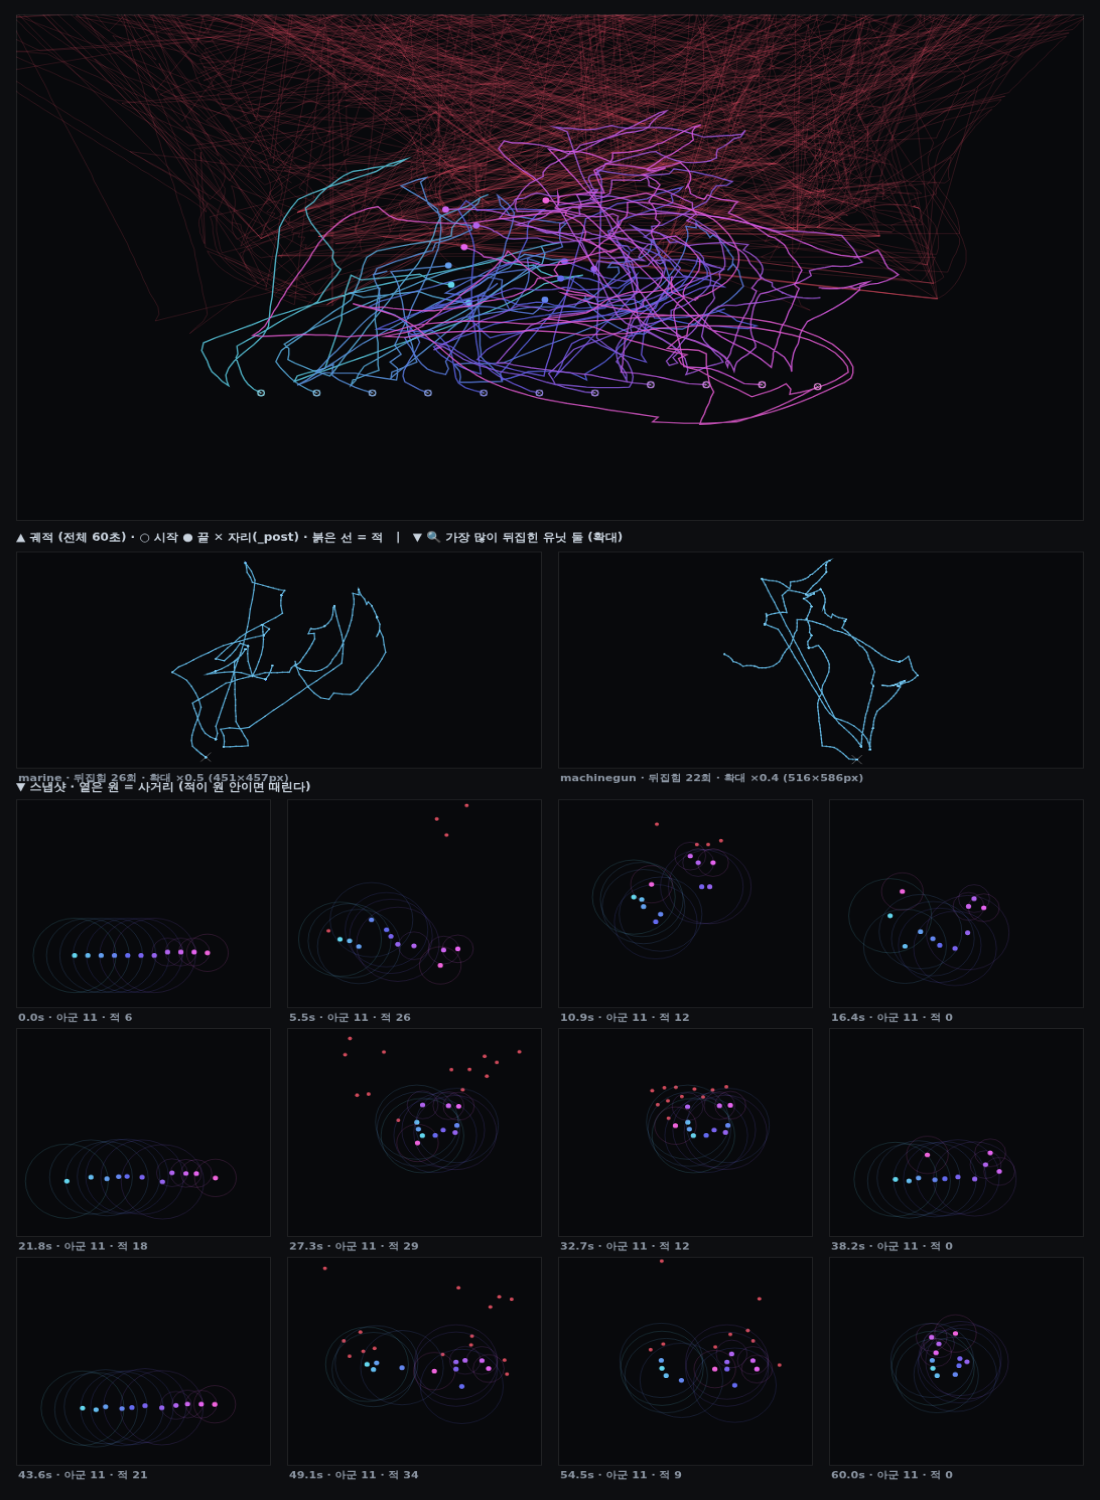
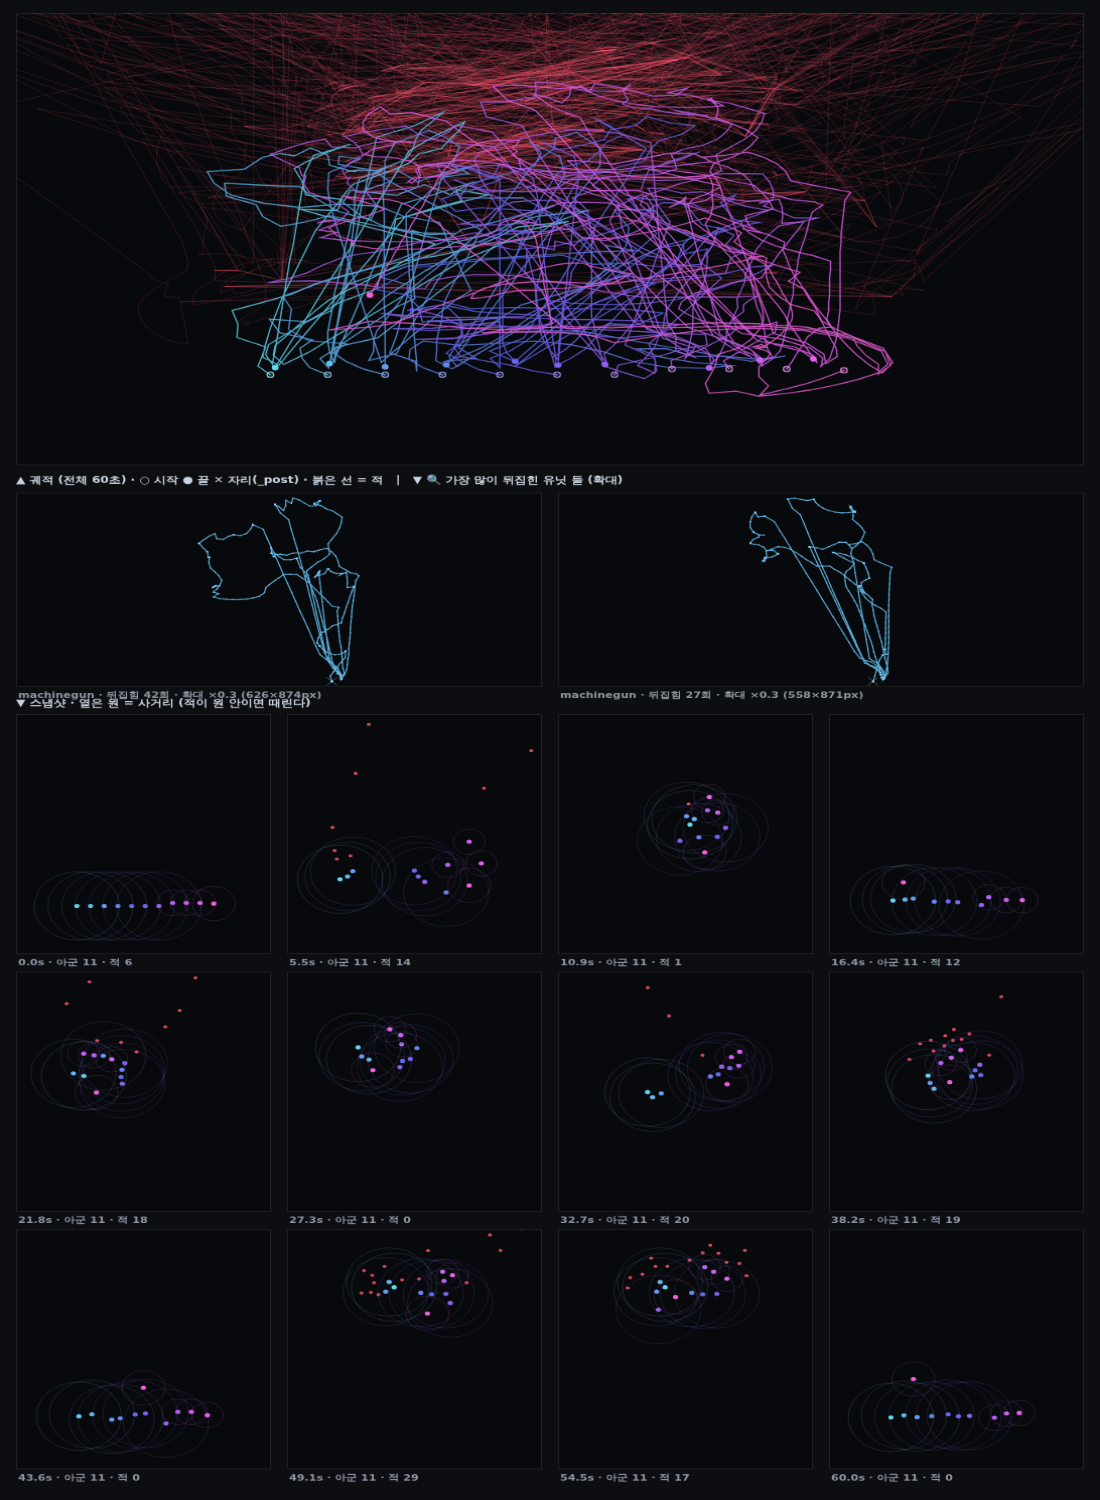
캠프: 던전 조작감을 기지와 맞춘다 — 이동 속도 · 건물 길찾기 · 좌표계
① 🏃 이동 속도 — 기지와 던전이 **가운데에서 만난다**(사용자 확정).
   실측(순항 · 화면 세로 비율/초): 기지 병력 0.1738 · 던전 0.0435 — 4배 차이.
   TECH_SPD_MUL_U 0.375(기지 병력) + CAMP_SPD_MUL 2.5(던전) → 0.1086 / 0.1089.
   ⛔ 기지 **일꾼**은 0.6 그대로다 — 채취 왕복이 곧 수입이라 건드리면 경제가 깎인다.
   ⚠ 앞서 「1.5배 차이」로 보고한 것은 틀린 측정이었다(5초를 재는 동안 유닛이
     도착해 멈춰 평균이 낮게 나왔다). 거리를 늘려 초마다 재야 순항이 보인다.

② 🧱 건물을 뚫고 가지 않는다 — **기지의 길찾기를 그대로 빌린다**.
   전장 장애물은 strikeTempleRects(=본부 하나)뿐이라 나머지 건물은 통과했다.
   건물 전부를 원형 장애물로 만드는 안은 되돌렸다(국소 회피뿐이라 아군이 갇혔다 —
   의무병이 아군에게서 1152 → 1387 로 멀어졌다). 대신 campMove 가 격자 좌표에서
   _techFindPath 를 부른다 — 막혔을 때만, 유닛마다 0.5초 주기로.
   ⛔ 길찾기를 새로 짜지 않았고 18-strike.js 도 안 건드렸다.

③ 🗺 건물 좌표계를 하나로 — 방어 건물만 campG2W, 나머지는 sx/sy 였다.
   그려진 자리와 화면의 12~30% 어긋나 있었다.

실측(60초 · D1R30 · 3판 중앙값) — 이 커밋 전 → 후:
   사거리 안 23.6 → 31% · 표적 보유 52.9 → 60.1% · 못 닿음 11 → 2
   쏜 횟수 273 → 340 · 남은 적 11 → 0마리
   ⚠ 자리에서 벗어난 거리 208 → 397(빨라졌으니 더 나간다) · 순간이동 0 → 2회(64px)

스모크 계약 둘을 새로 붙였고 옛 코드에서 실패하는 것을 확인했다:
   「던전에서 건물을 뚫지 않고 돌아간다」(옛: 한가운데를 12프레임 통과)
   「건물은 내가 지은 자리에 선다」(옛 규칙 「일반 건물은 뒤 그대로」를 대체)
전체 278건 통과.

Claude-Session: https://claude.ai/code/session_011cCH77KVsaA19BD1hq5fC9

diff --git a/js/21-camp-battle.js b/js/21-camp-battle.js
@@ -36,6 +36,64 @@
 //   ⛔ 오토배틀의 신전 형상 함수(strikeTempleGap/Half/R)를 쓰지 않는다 — 저건 큰 사각형
 //     신전용이고, 캠프 건물은 격자 한 칸짜리라 그 계산이 과하게 파고든다.
 const CAMP_BLD_R = 46;
+// 🏃 **던전 이동 속도 — 기지와 가운데에서 만난다** (2026-09-05 사용자 확정)
+//   ⛔ 무엇이 문제였나 — 같은 레인저인데 기지와 던전의 속도가 달랐다.
+//     실측(2026-09-05 · **순항** 구간, 화면 세로 비율/초): 기지 병력 **0.1738** · 던전 **0.0435** — **4배**.
+//     ⚠ 처음엔 「1.5배」로 읽었는데 **틀린 측정**이었다 — 5초를 재는 동안 기지 유닛이 도착해
+//       멈춰서 평균이 낮게 나왔다. 거리를 늘려 초마다 재야 순항 속도가 보인다.
+//     두 곳이 아예 다른 식을 쓴다 — 기지는 `TECH_SPD_MUL`(16-build.js), 던전은 오토배틀의
+//     `MOVE_MUL`(14-input-fx.js)로 나눈다.
+//   ⭐ 사용자 판단은 「가운데」다 — 기지는 너무 빠르고 던전은 너무 느리다.
+//     목표 0.1087 = 두 값의 중간. 기지 **병력**은 0.6 → **0.375**(TECH_SPD_MUL_U), 던전은 여기서 **×2.5**.
+//     ⛔ 기지 **일꾼**은 0.6 그대로다 — 채취 왕복이 곧 수입이라 건드리면 경제가 조용히 깎인다.
+//   ⛔ `MOVE_MUL` 을 고치지 말 것 — 유즈맵 오토배틀과 공유한다.
+//   ⚠ 거는 자리는 **이동 호출의 dt** 다(CAMP_RETURN_K 와 같은 관용구). 유닛의 `spd` 는
+//     실제 이동에 안 쓰이고, `strikeMoveToward` 안의 `_skSpdMul` 은 밖에서 못 만진다.
+const CAMP_SPD_MUL = 2.5;
+
+/* 🧱 ── 건물을 뚫고 가지 않는다 — **기지의 길찾기를 그대로 빌린다** (2026-09-05) ─────
+ * ⛔ 무엇이 문제였나 — 전장에서 유닛을 미는 장애물은 `strikeTempleRects()`(18-strike.js) 뿐이고
+ *   캠프에서 그것은 **본부 하나**다. 나머지 건물은 그냥 통과했다(사용자 신고).
+ * ⛔ 먼저 「건물 전부를 원형 장애물로」 만들어 봤다가 **되돌렸다** — 국소 회피 + 밀어내기만으로는
+ *   건물 뒤로 길이 안 나서 **아군이 갇혔다**(의무병이 아군에게서 1152 → 1387 로 멀어졌다).
+ * ⭐ 그래서 **기지가 이미 쓰는 길찾기**(`_techFindPath` · 16-build.js)를 빌린다. 그것은
+ *   **격자 좌표(0~1)** 에서 도는데, 전장 좌표는 `campW2G` 로 바로 그 격자가 된다 —
+ *   그림·건물·유닛이 전부 같은 격자에 있으니 변환만 하면 된다. ⛔ 길찾기를 새로 짜지 말 것.
+ * ⚠ **매 프레임 돌리지 않는다** — A* 가 건물 꼭짓점 전부를 훑는다. 막혔을 때만, 유닛마다
+ *   `CAMP_PATH_T` 마다 다시 낸다. 안 막혔으면 곧장 간다(대부분의 프레임이 이쪽이다).
+ * ⚠ 목표가 크게 움직이면(적을 쫓는 중) 길을 버린다 — 낡은 길을 붙들면 엉뚱한 데로 간다.
+ */
+const CAMP_PATH_T   = 0.5;    // 길을 다시 내는 주기(초)
+const CAMP_PATH_ARR = 0.018;  // 경유점 도착 판정(격자)
+const CAMP_PATH_MOVE= 0.06;   // 목표가 이만큼(격자) 움직이면 길을 버린다
+function _campPathClear(u, gA, gB){
+  if(typeof _techSegClear !== 'function') return true;
+  return _techSegClear({ x:gA.gx, y:gA.gy, type:'unit', uid:(u.gm || u.id) }, gA.gx, gA.gy, gB.gx, gB.gy); }
+function campMove(u, tx, ty, dt){
+  if(typeof strikeMoveToward !== 'function') return;
+  const step = dt * CAMP_SPD_MUL;
+  const W = (CAMPB && CAMPB.world) || 4800;
+  if(typeof campW2G !== 'function' || typeof campG2W !== 'function' || typeof _techFindPath !== 'function'){
+    strikeMoveToward(u, tx, ty, step); return; }
+  const gA = campW2G(u.x, u.y, W), gB = campW2G(tx, ty, W);
+  // 들고 있던 길 — 목표가 그대로면 이어서 따라간다
+  const wp = u._cpWp;
+  if(wp && wp.length && u._cpGx != null
+     && Math.hypot(gB.gx - u._cpGx, gB.gy - u._cpGy) <= CAMP_PATH_MOVE){
+    while(wp.length && Math.hypot(wp[0].x - gA.gx, wp[0].y - gA.gy) <= CAMP_PATH_ARR) wp.shift();
+    if(wp.length){ const p = campG2W(wp[0].x, wp[0].y, W);
+      strikeMoveToward(u, p.x, p.y, step); return; }
+  }
+  u._cpWp = null;
+  u._cpT = (u._cpT || 0) - dt;
+  if(_campPathClear(u, gA, gB)){ strikeMoveToward(u, tx, ty, step); return; }   // 곧장 갈 수 있다
+  if(u._cpT > 0){ strikeMoveToward(u, tx, ty, step); return; }                  // 아직 다시 낼 때가 아니다
+  u._cpT = CAMP_PATH_T * (0.8 + Math.random() * 0.4);   // 유닛마다 위상을 흩어 한 프레임에 몰리지 않게
+  let path = null;
+  try{ path = _techFindPath({ x:gA.gx, y:gA.gy, type:'unit', uid:(u.gm || u.id) }, gB.gx, gB.gy); }catch(e){ path = null; }
+  if(path && path.length > 1){ u._cpWp = path; u._cpGx = gB.gx; u._cpGy = gB.gy;
+    const p = campG2W(path[0].x, path[0].y, W); strikeMoveToward(u, p.x, p.y, step); return; }
+  strikeMoveToward(u, tx, ty, step); }
 // ⏱ 목표를 붙들어 두는 시간 — 0 이면 매 프레임 다시 계산한다.
 //   ⚠ 옛 CAMP_ENG_TICK(0.4)은 **되돌리기와 싸우던 시절**의 값이다. 미는 주체가 하나면
 //     목표가 매 프레임 바뀌어도 서로 무르지 않으므로 붙들 이유가 줄어든다.
@@ -343,7 +401,7 @@ function campStepUnits(dt){
           u._order = null; u._post = { x:o.x, y:o.y }; u._idleT = CAMP_RETURN_DELAY;
           u._goalX = null; u._goalTgt = null; u.moving = false; continue; }
         u._idleT = CAMP_RETURN_DELAY;
-        strikeMoveToward(u, o.x, o.y, dt); continue; }
+        campMove(u, o.x, o.y, dt); continue; }
       // 💉 의무병 — ① 치유 ② 싸우는 본대 따라가기 ③ 자기 자리. 순서가 곧 우선순위다.
       if(a.heal){
         if(_campHealNeed(u, me)){ strikeHealStep(u, me, dt); u._idleT = 0; continue; }   // ① 다친 아군이 있다
@@ -356,7 +414,7 @@ function campStepUnits(dt){
             if(od > lim){ gx = u._post.x + ox / od * lim; gy = u._post.y + oy / od * lim; } }
           const dx = gx - u.x, dy = gy - u.y;
           if(dx * dx + dy * dy <= CAMP_HEAL_FOLLOW * CAMP_HEAL_FOLLOW){ u.moving = false; continue; }
-          strikeMoveToward(u, gx, gy, dt); continue; }
+          campMove(u, gx, gy, dt); continue; }
         // ③ 아무도 안 싸운다 → 아래 일반 복귀와 **같은 규칙**으로 자기 자리로 (지연 포함)
       }
       // 🧱 벙커에 탄 유닛은 움직이지 않는다 — 자리 고정·피해 전가는 campBunkerStep 이 맡는다.
@@ -374,7 +432,7 @@ function campStepUnits(dt){
         // 🗿 최소 사거리 — 이보다 가까우면 **쏠 수 없다.** 물러나 거리를 되찾는다.
         //   ⚠ 이것이 '페럴 > 콜로서스'의 핵심이다(RACES.md §1).
         if(u.minRng > 0 && d < u.minRng + (u.size || 14) * 0.95){
-          strikeMoveToward(u, u.x - (tgt.x - u.x), u.y - (tgt.y - u.y), dt);
+          campMove(u, u.x - (tgt.x - u.x), u.y - (tgt.y - u.y), dt);
           u.depT = u.dep; continue; }
         if(d <= strikeReach(u, tgt)){
           u.moving = false; u.face = Math.atan2(tgt.x - u.x, tgt.y - u.y);
@@ -422,14 +480,14 @@ function campStepUnits(dt){
         if(dx * dx + dy * dy <= CAMP_POST_R * CAMP_POST_R){ u.moving = false; continue; }
         // ⭐ **복귀는 빠르게**(2026-08-30 사용자 확정) — 싸우러 나갔다 오는 길이라 굼뜨면
         //   다음 무리가 올 때까지 자리를 못 잡는다. 배수 1.8 = 한 프레임 0.09초치라 안 튄다.
-        strikeMoveToward(u, p.x, p.y, dt * CAMP_RETURN_K);
+        campMove(u, p.x, p.y, dt * CAMP_RETURN_K);
         continue; }
 
       // ── 이동 — **한 프레임에 딱 한 번**
       const gx = goal.x - u.x, gy = goal.y - u.y;
       const ar = campArriveR(u);
       if(gx * gx + gy * gy <= ar * ar){ u.moving = false; continue; }
-      strikeMoveToward(u, goal.x, goal.y, dt); }
+      campMove(u, goal.x, goal.y, dt); }
 
     // ── 죽은 유닛 정리 (오토배틀과 같은 규약)
     const dead = me.units.filter(u => u.dead);

diff --git a/test/smoke.js b/test/smoke.js
@@ -5808,6 +5808,61 @@ async function groupLobby(){
     { const C=campState(); if(C){ C.dg=0; C.cleared=0; } } campBattleClose();
     return '고름→유닛 카드+⊘ · 5프레임 유지 · 해제→요약 · 죽은 지정은 요약'; });
 
+  // 🧱 **던전에서도 건물을 뚫고 가지 않는다** (2026-09-05 사용자 신고)
+  //    ⛔ 전장의 장애물은 `strikeTempleRects()`(=본부 하나)뿐이라 나머지 건물은 통과했다.
+  //    ⛔ 건물 전부를 원형 장애물로 만드는 안은 **되돌렸다** — 국소 회피뿐이라 아군이 갇혔다.
+  //    ⭐ 지금은 **기지의 길찾기(_techFindPath)를 격자 좌표에서 그대로 빌린다**(campMove).
+  await step('캠프: 던전에서 건물을 뚫지 않고 돌아간다 (기지 길찾기 재사용)', async()=>{
+    // ⛔ 가드는 옛 버전에도 있는 것으로 — campMove 로 잡으면 옛 코드에서 조용히 건너뛴다
+    skipIf(typeof campDeploy!=='function'||typeof campStepUnits!=='function'
+      ||typeof _techFindPath!=='function'||typeof campW2G!=='function','캠프/길찾기 배선 없음');
+    try{
+      campEnterDungeon(1); CAMPB=null; campCombatStep(0.05); skipIf(!CAMPB,'전장이 안 열림');
+      campWithStk(()=>{ STK.me.units.length=0; STK.ai.units.length=0; });
+      if(CAMPB._down) CAMPB._down.length=0; if(CAMPB._wq) CAMPB._wq.length=0;
+      const W=CAMPB.world;
+      // 유닛과 목표 **사이**에 건물을 놓는다
+      G.tech.ents=(G.tech.ents||[]).filter(e=>!(e&&e.bk==='barracks'));
+      const bg={x:0.5,y:0.40};
+      G.tech.ents.push({ eid:G.tech.eseq++, type:'bldg', bk:'barracks', x:bg.x, y:bg.y, w:3,h:3, bt:0 });
+      campBuildStructs();
+      const probe={ x:bg.x, y:bg.y, type:'unit', uid:'marine' };
+      const rect=(_techNavRects(probe)||[]).find(R=>bg.x>R.x0&&bg.x<R.x1&&bg.y>R.y0&&bg.y<R.y1);
+      skipIf(!rect,'건물이 길찾기 장애물로 안 잡힌다(격자 밖)');
+      const u=campDeploy('marine', 0.5, 0.55); assert(u,'배치 실패');
+      u.hp=u.maxHp=1e9;
+      const goal={x:0.5,y:0.24};
+      // ① 전제 — 곧장 가면 건물을 지난다
+      assert(!_techSegClear(probe, 0.5, 0.55, goal.x, goal.y),'전제: 직선이 건물을 안 지난다 — 검사가 헛돈다');
+      campSelSet([u]); campMoveSel(goal.x, goal.y);
+      // ⚠ 판정을 둘로 나눈다 — **모퉁이를 살짝 스치는 것**과 **한가운데를 뚫는 것**은 다르다.
+      //   관성이 있는 이동이라 코너에서 몇 프레임 겹치는 것은 기지에서도 일어난다.
+      //   ⛔ 「뚫고 간다」의 자[尺]는 **안쪽 절반**이다 — 돌아가면 거기엔 한 프레임도 안 들어간다.
+      const cx=(rect.x0+rect.x1)/2, cy=(rect.y0+rect.y1)/2;
+      const ihx=(rect.x1-rect.x0)/4, ihy=(rect.y1-rect.y0)/4;
+      let inside=0, core=0, best=1e9;
+      for(let i=0;i<10*30;i++){ campWithStk(()=>campStepUnits(1/30));
+        const g=campW2G(u.x,u.y,W);
+        if(g.gx>rect.x0&&g.gx<rect.x1&&g.gy>rect.y0&&g.gy<rect.y1) inside++;
+        if(Math.abs(g.gx-cx)<ihx&&Math.abs(g.gy-cy)<ihy) core++;
+        best=Math.min(best, Math.hypot(g.gx-goal.x, g.gy-goal.y));
+        if(!u._order) break; }
+      const g1=campW2G(u.x,u.y,W);
+      // ② 건물 **한가운데**를 지나가지 않았다 = 돌아갔다
+      assert(core===0,'건물 한가운데를 '+core+'프레임 지나갔다 — 뚫고 갔다');
+      // ③ 모퉁이를 스치는 것도 짧아야 한다(0.7초 미만)
+      assert(inside<21,'건물에 '+inside+'프레임 겹쳤다 — 모퉁이를 스치는 정도가 아니다');
+      // ④ 그래도 목표 쪽으로 갔다(막혀서 제자리걸음이 아니다)
+      assert(best < 0.10,'건물을 피하다 목표에 못 갔다: 가장 가까웠던 거리 '+best.toFixed(3));
+      return '한가운데 0프레임 · 겹침 '+inside+'프레임 · 목표까지 '+best.toFixed(3)+' (끝 '+g1.gy.toFixed(3)+')';
+    } finally { campWithStk(()=>{ STK.me.units.length=0; STK.ai.units.length=0; });
+      G.tech.ents=(G.tech.ents||[]).filter(e=>!(e&&e.bk==='barracks'));
+      if(typeof campBuildStructs==='function' && CAMPB) campBuildStructs();
+      if(typeof campSelClear==='function') campSelClear();
+      { const C2=campState(); if(C2){ C2.dg=0; C2.cleared=0; } }
+      if(typeof campBattleClose==='function') campBattleClose(); }
+  });
+
   // 🖐 **던전 조작감 = 기지 조작감** (2026-09-05 사용자 신고: 「같은 레인저인데 던전에서만 다르다」)
   //    ⚠ 위 스텝들은 API 를 직접 부른다 — **진짜 포인터 이벤트 경로**는 아무도 안 잰다.
   //      「드래그가 뻑뻑하다 · ⊘ 를 눌러도 안 풀린다」는 전부 그 경로의 이야기다.

diff --git a/js/17-build-cards.js b/js/17-build-cards.js
@@ -775,7 +775,15 @@ if(typeof document!=='undefined'){ document.addEventListener('pointermove', func
   document.addEventListener('pointerup', function(e){ if(_inBuildPtr()&&typeof techPtrUp==='function') techPtrUp(e); });
   document.addEventListener('pointercancel', function(e){ if(_inBuildPtr()&&typeof techPtrUp==='function') techPtrUp(e); }); }
 // ── 그리드 배치: 배치 영역(0.06~0.94 × 0.18~0.94)을 20×20 정사각(픽셀) 셀로 나눔. 건물은 size[w,h]만큼 셀 점유 ──
-const TECH_SPD_MUL=0.6;   // 건설지 유닛 이동 속도 배율(1=기존). 화면 종횡비 보정과 함께 적용
+// 🏃 건설지(=캠프 기지) 이동 속도 배율.
+//   ⭐ **병력만 던전과 가운데에서 만난다**(2026-09-05 사용자 확정: 「기지는 너무 빠르고 던전은 너무 느리다」).
+//     실측(순항 · 화면 세로 비율/초): 기지 병력 **0.1738** · 던전 **0.0435** — **4배** 차이였다.
+//     중간 0.1087 로 맞춘다 → 기지 병력 0.6 → **0.375**, 던전은 `CAMP_SPD_MUL` **2.5**.
+//   ⛔ **일꾼은 0.6 그대로 둔다** — 채취는 왕복 횟수가 곧 수입이라, 느리게 하면 경제가 조용히 깎인다
+//     (BALANCE §3 의 실측 기준선이 전부 이 값으로 잰 것이다). 사용자가 말한 것은 병력 조작감이다.
+//   ⚠ 병력 쪽 두 값은 **한 쌍**이다 — 한쪽만 고치면 다시 갈라진다(js/21-camp-battle.js CAMP_SPD_MUL).
+const TECH_SPD_MUL=0.6;        // 일꾼 — 옛 값 그대로(경제 기준선)
+const TECH_SPD_MUL_U=0.375;    // 병력 — 던전과 가운데에서 만난다
 const TECH_GRID={ cols:20, x0:0.06, y0:0.18, x1:0.94, y1:0.94 };
 function techCols(){ return techWallet()? STK_TECH_COLS : TECH_GRID.cols; }   // 건설 그리드 칸 수 — 오토배틀은 보드처럼 더 넓게(맵별)
 function techExtOpen(){ const w=techWallet(); return !!(w && (w.mines||0)>=STK_MINE_CAP); }   // 광산 최대 보유 → 건설지 확장 개방

diff --git a/js/16-build.js b/js/16-build.js
@@ -702,7 +702,7 @@ function techTick(dt){ if(!G.tech) return; let active=false, done=false;
       if(_dw>0.018 && !_techSegClear(e, e.x, e.y, e._wp[1].x, e._wp[1].y)) break;   // 아직 코너 못 돌았고 다음 구간 막힘 → 유지(단 피벗 초근접(≤0.018)이면 강제 전환 — 감속 정지 방지)
       e._wp.shift(); const _n=e._wp[0]; e.tx=_n.x; e.ty=_n.y; e._mvStuck=0; e._mvPrevD=null; }   // 🏃 경유점 선행 전환: 모퉁이마다 멈췄다 가는 현상 제거 + 좁은 통로에선 지름길 금지
     e._pfx=e.x; e._pfy=e.y;   // 이번 프레임 이동 전 위치(쐐기 판정 시 되돌림용)
-    const r=stepUnitMove(e, {x:e.tx,y:e.ty}, key, key, dt, { GW:GW||390, GH:GH||390, clamp:_clamp, staticN:(e._ghost?[]:_staticN), avoidMul:0.22, noSlow:(e._wp&&e._wp.length>1), ay:(1/_techGA()), spdMul:TECH_SPD_MUL*_techWkSpd(e) });   // 채취 유령=유닛 회피 없음(통과) / avoidMul 0.22=슬롯 간격 미만 최대
+    const r=stepUnitMove(e, {x:e.tx,y:e.ty}, key, key, dt, { GW:GW||390, GH:GH||390, clamp:_clamp, staticN:(e._ghost?[]:_staticN), avoidMul:0.22, noSlow:(e._wp&&e._wp.length>1), ay:(1/_techGA()), spdMul:((e.type==='worker')?TECH_SPD_MUL:TECH_SPD_MUL_U)*_techWkSpd(e) });   // 채취 유령=유닛 회피 없음(통과) / avoidMul 0.22=슬롯 간격 미만 최대
     if(r.done){ const _far=Math.hypot(e.tx-e.x, e.ty-e.y)>0.035;   // 도착이 아니라 막혀서 멈춤(관성 정체)
       if(e._wp && e._wp.length>1){   // 경유점 남음 → 다음 경유점으로(막혔으면 현재 위치 기준 경로 재계산)
         if(_far && (e._rr||0)<4){ e._rr=(e._rr||0)+1; const _fin=e._wp[e._wp.length-1]; e._wp=_techFindPath(e,_fin.x,_fin.y); }

diff --git a/js/19-camp.js b/js/19-camp.js
@@ -2590,7 +2590,7 @@ function campMineTrip(u, dt){
   const m = u._mine; if(!m) return;
   const dx = m.x - u.x, dy = m.y - u.y;
   if(dx*dx + dy*dy > CAMP_MINE_ARR*CAMP_MINE_ARR){
-    if(typeof strikeMoveToward === 'function') strikeMoveToward(u, m.x, m.y, dt);
+    if(typeof campMove === 'function') campMove(u, m.x, m.y, dt);   // 🏃 매설도 같은 속도로
     return; }
   const sk = m.sk || {};
   (CAMPB._mines || (CAMPB._mines = [])).push({
